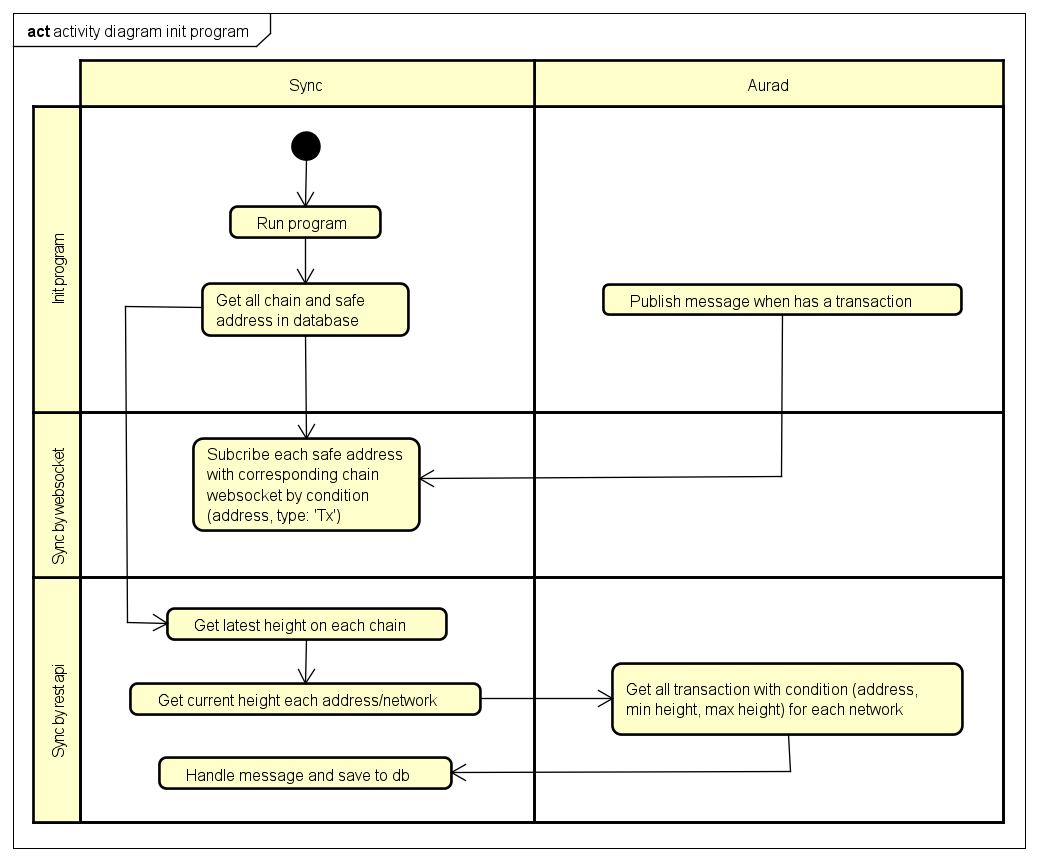
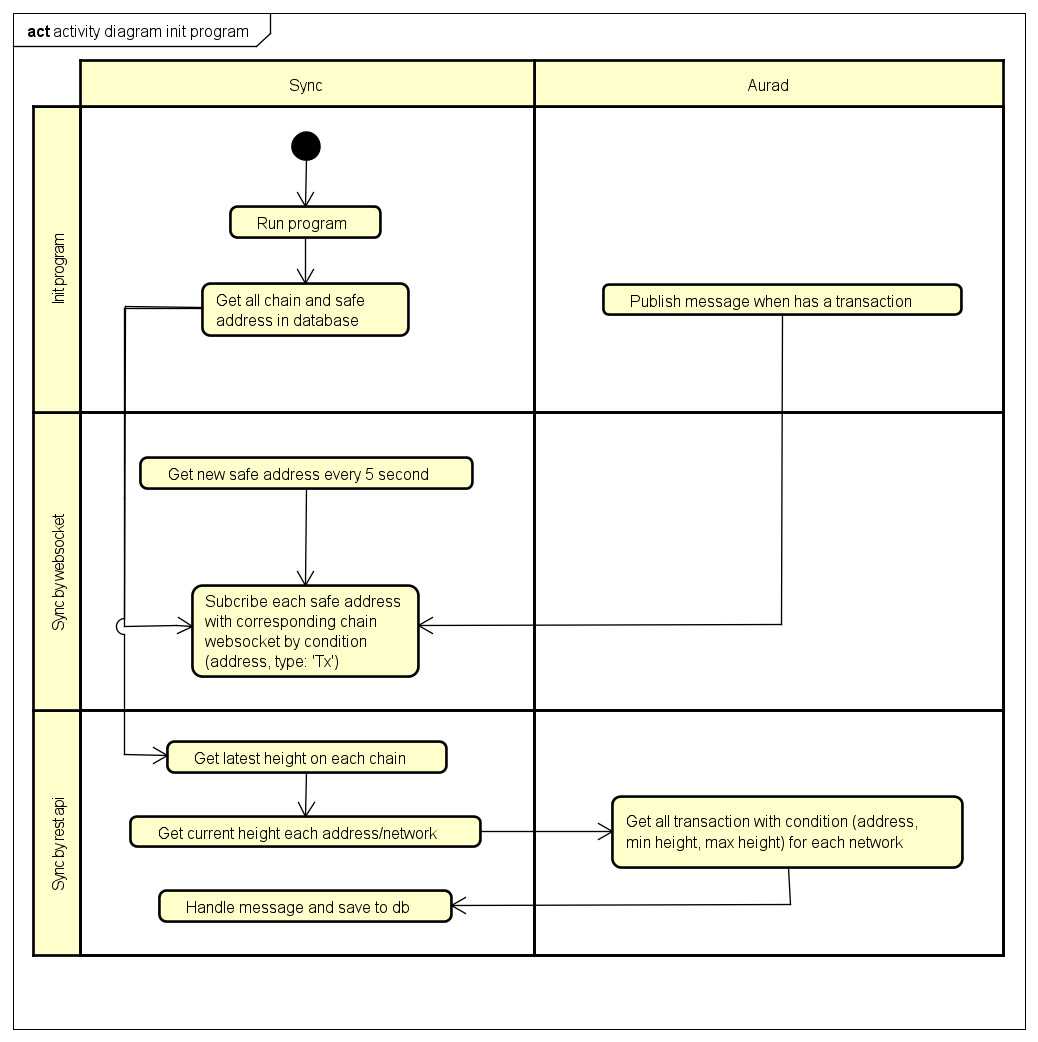
update main flow doc

diff --git a/docs/README.md b/docs/README.md
@@ -1,6 +1,22 @@
 # Main flow
 
-1. First run program
+This program will sync transaction from Aura Network to database offchain by websocket. The Tendermint websocket query has params likes:
+```
+    "tm.event = 'Tx' AND transfer.sender = 'AddrA'"
+```
+AND
+```
+    "tm.event = 'Tx' AND transfer.recipient = 'AddrA'"
+```
+
+  
+1. User action  
+When user creates new transaction, Aura network will publish event Tx with transfer.sender or transfer.recipient to subcriber. 
+
+![image](pics/activity-diagramr-action-user.png)  
+
+2. First run program  
+When first run program, program will connect to Aura network and subscribe to event Tx for all safe address. If new safe created, a cronjob run every 5 second will add it to the list address and subcribe for new safe address.  
+If this app is crash and restart, program will get current latest block synced in database for each address and latest block in Aura network, then use REST API (Cosmjs) to get all transaction which not synced yet.  
+
 ![image](pics/activity-diagram-init-program.png)
-2. User action
-![image](pics/activity-diagramr-action-user.png)
